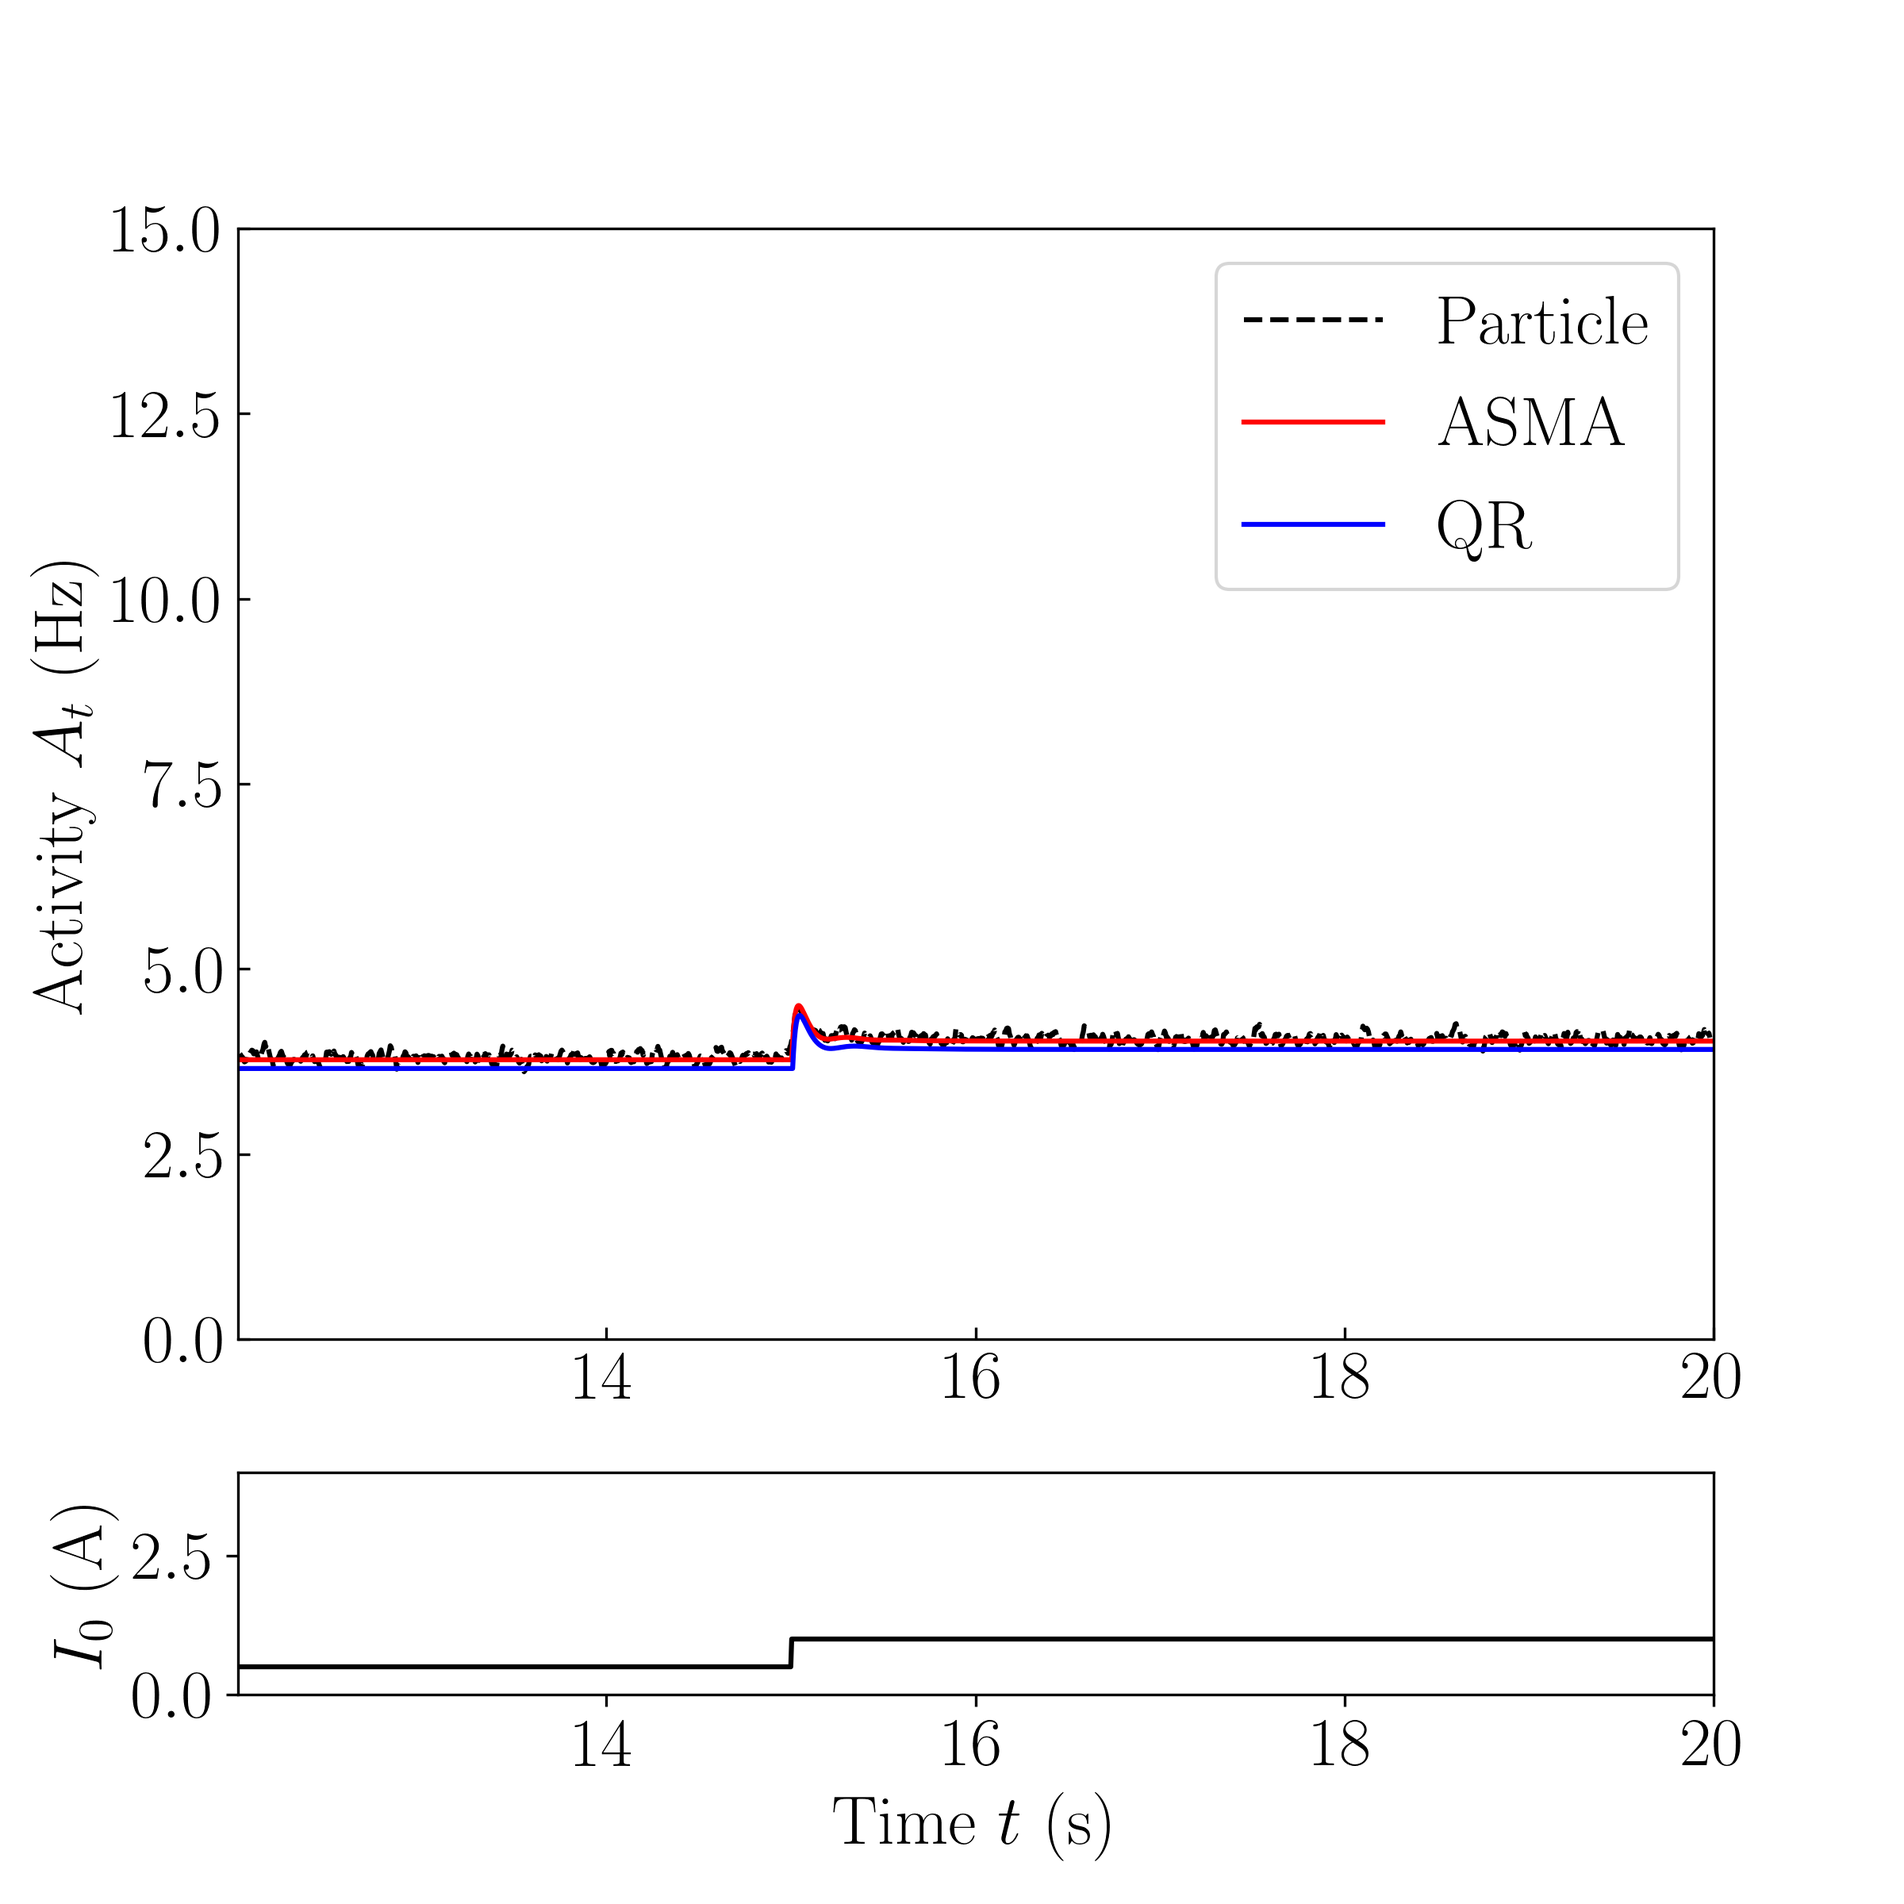
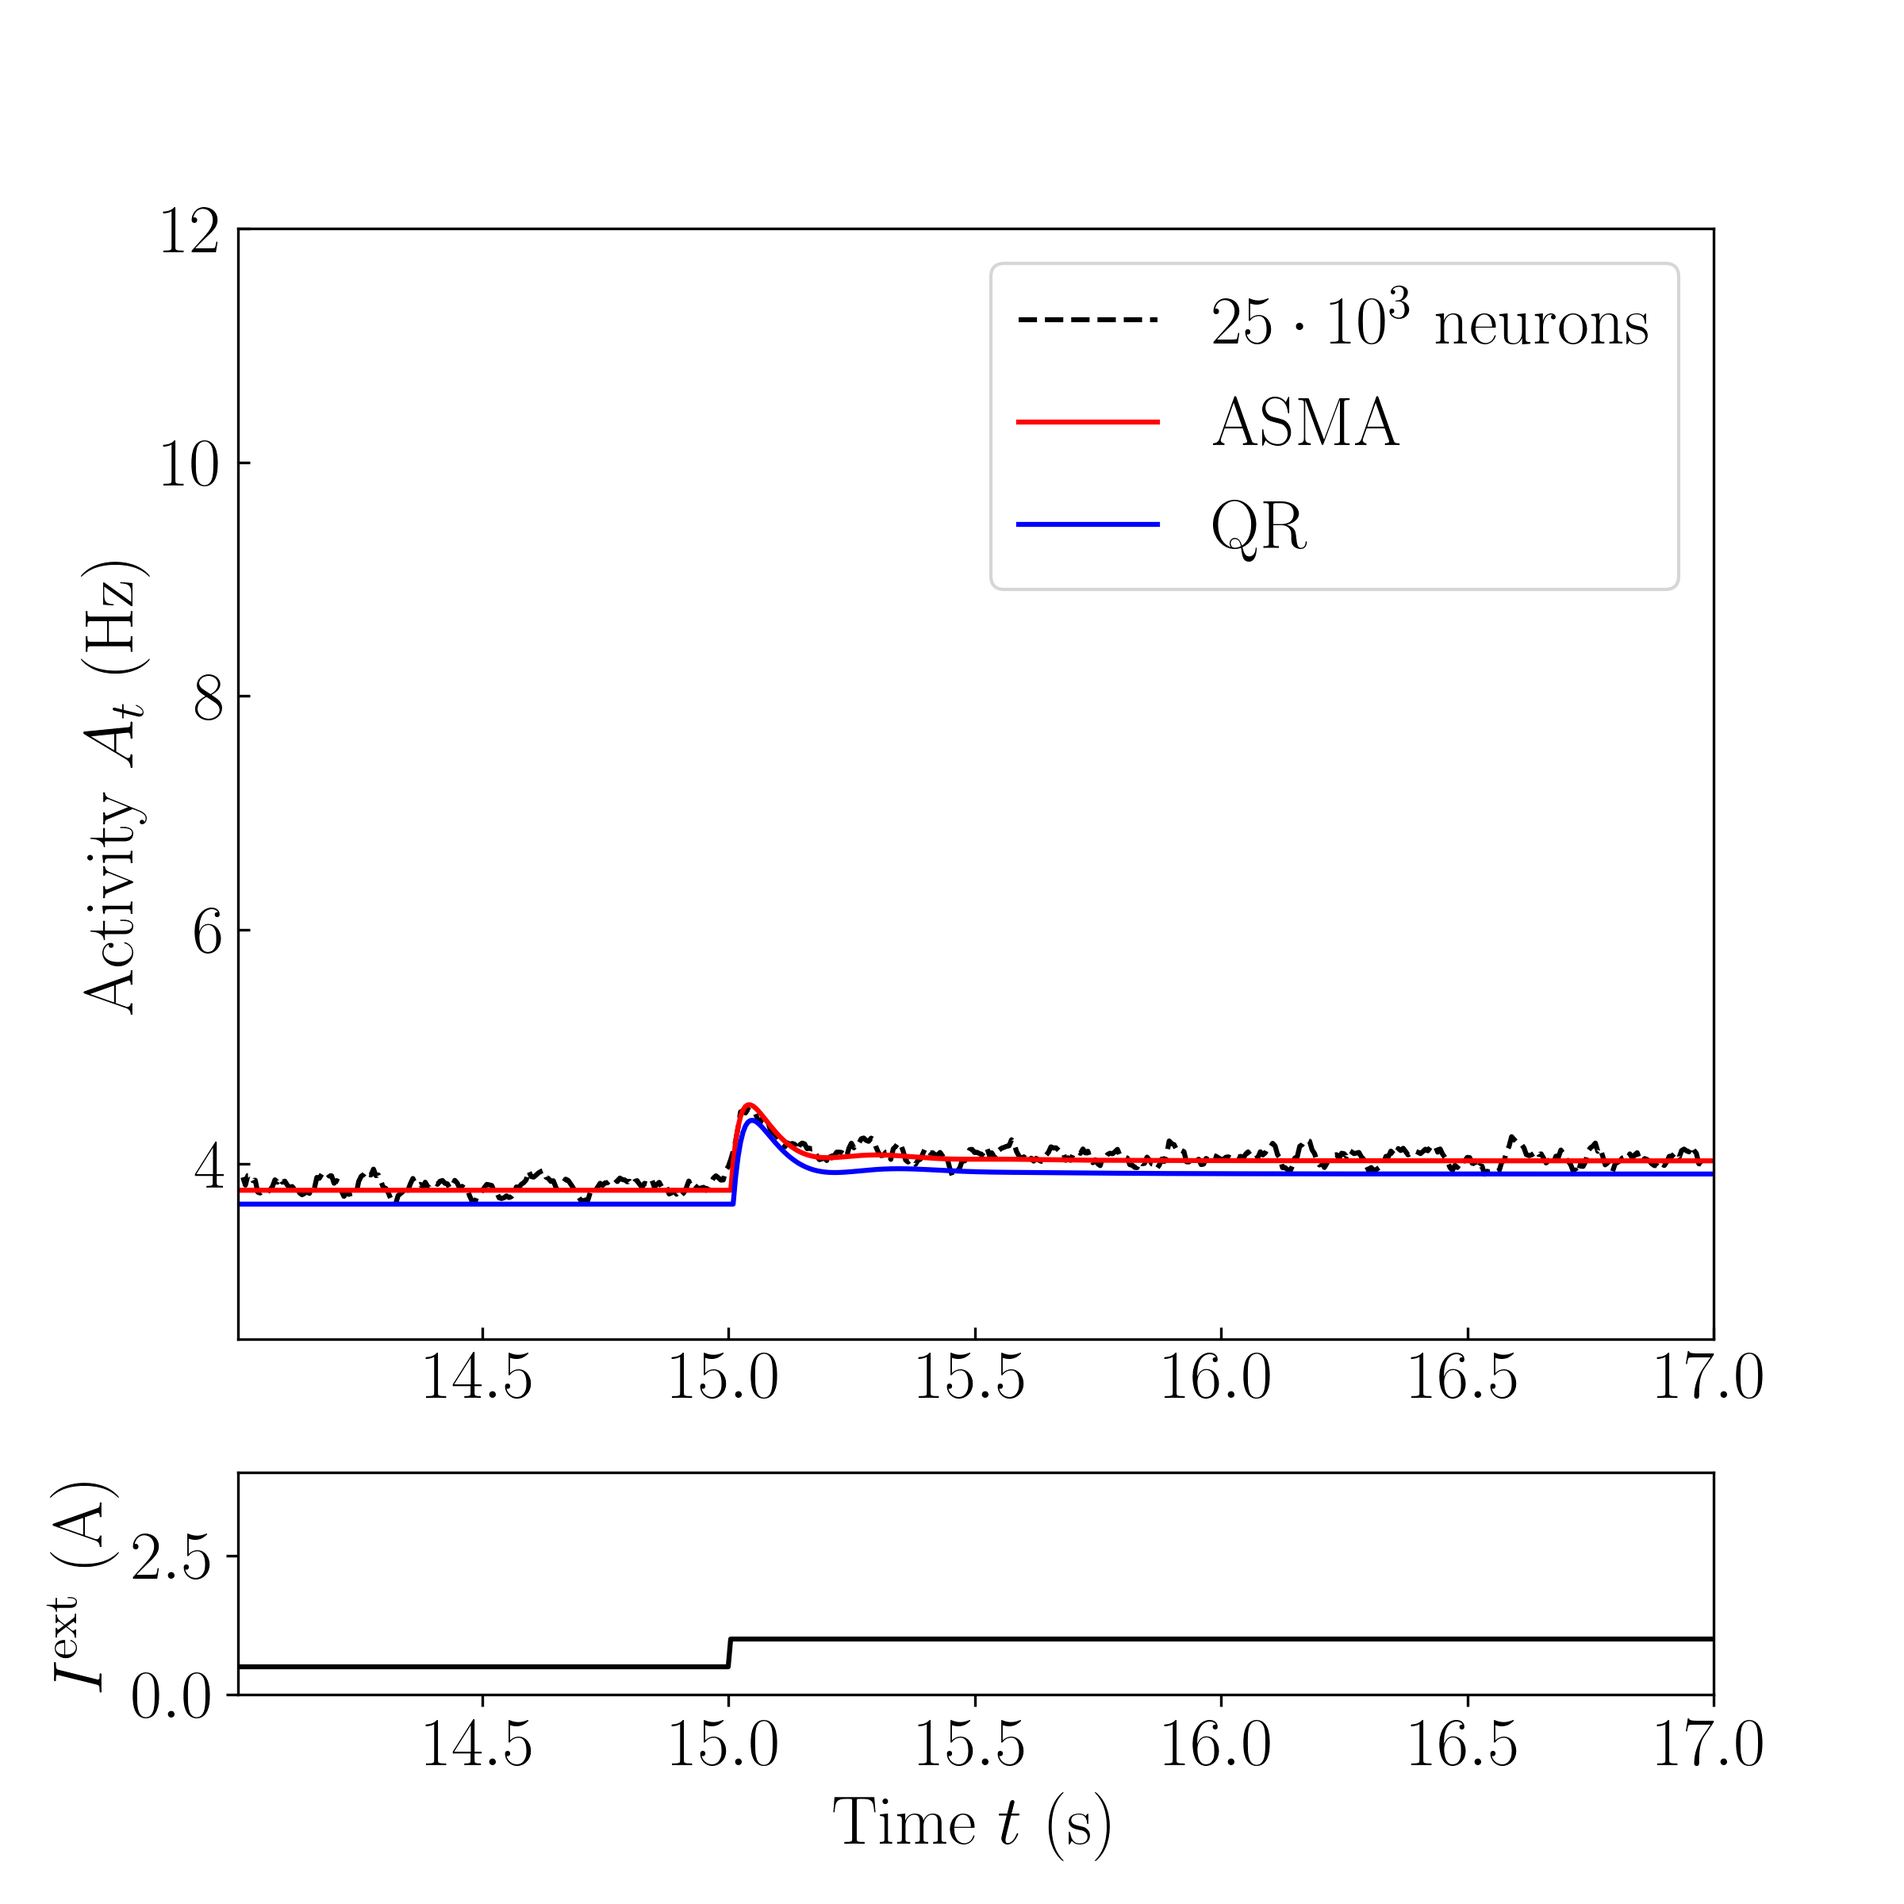
Final modifications of plots for written report

diff --git a/plots/final/m_t_distr2.py b/plots/final/m_t_distr2.py
@@ -12,6 +12,7 @@ from matplotlib.patches import Patch
 import matplotlib.animation as animation
 from numba import jit, prange
 from scipy.interpolate import griddata
+import matplotlib
 
 import flowrect
 from flowrect.simulations.util import calculate_age, calculate_mt, eta_SRM
@@ -56,10 +57,6 @@ def right_after_spike(M, spikes):
     M_after_spike = M
     mask = spikes == 0
     M_after_spike[mask] = np.nan
-    # for i in range(1, M.shape[0]):
-    #     mask = spikes[i] == 1
-    #     M_after_spike[i][mask] = M[i][mask]
-    #     M_after_spike[i][~mask] = M_after_spike[i - 1][~mask]
     return M_after_spike
 
 
@@ -80,12 +77,14 @@ def plot_m_t_distr(
     plot_H=False,
     savepath="",
     savename="",
+    cmap="Greens",
     save=False,
     usetex=False,
     figsize=(12, 5),
     inset=None,
     dpi=None,
     title=None,
+    simple_m=False,
     font_family="serif",
     font_size="12",
     noshow=False,
@@ -93,6 +92,7 @@ def plot_m_t_distr(
     if usetex:
         plt.rc("text", usetex=True)
         plt.rc("font", family=font_family, size=font_size)
+        matplotlib.rcParams["text.latex.preamble"] = [r"\usepackage{amsmath}"]
 
     dim = len(params["Lambda"])
     dt = params["dt"]
@@ -129,7 +129,10 @@ def plot_m_t_distr(
         end_idx = int(params["I_ext_time"] / dt)
 
         # Figure out the distribution of m after spike
-        M_after_spike = right_after_spike(M, spikes)
+
+        M_after_spike = M
+        if not simple_m:
+            M_after_spike = right_after_spike(M, spikes)
 
         bins = num_bins - 3 * i
         time_points = np.repeat(ts[begin_idx:], bins)
@@ -161,7 +164,7 @@ def plot_m_t_distr(
                 s=0.2,
                 marker="s",
                 c=hist_points,
-                cmap="Greens",
+                cmap=cmap,
             )
 
             (m_t_plot,) = ax.plot(
@@ -169,7 +172,7 @@ def plot_m_t_distr(
                 m_t_ASMA[begin_idx:, a],
                 "-r",
                 alpha=0.5,
-                label=r"$\delta_{m-\overline{m}_t}$",
+                label=r"$\delta_{\boldsymbol{m}-\overline{\boldsymbol{m}}_t}$",
             )
             # ax.plot(
             #     ts[begin_idx:],
@@ -184,16 +187,16 @@ def plot_m_t_distr(
 
             # m_t distribution
             ax.set_xlabel(fr"Time $t$")
-            ax.set_ylabel(fr"$m_{a}$")
+            ax.set_ylabel(fr"$m_{a+1}$")
             plt.tight_layout()
+            label = r"Density over $\boldsymbol{m}$ `just after spike'"
+            if simple_m:
+                label = r"Density over $\boldsymbol{m}$"
             if a == 0 and i == 0:
                 handles, _ = scatter.legend_elements(alpha=0.6)
                 ax.legend(
                     [m_t_plot, handles[-1]],
-                    [
-                        r"$\delta_{m-\overline{m}_t}$",
-                        r"Density over $m$ (after spike)",
-                    ],
+                    [r"$\delta_{\boldsymbol{m}-\overline{\boldsymbol{m}}_t}$", label],
                     loc="lower left",
                 )
 

diff --git a/plots/final/activity.py b/plots/final/activity.py
@@ -8,6 +8,7 @@ import matplotlib.text as mtext
 from matplotlib import gridspec
 from matplotlib.animation import FuncAnimation
 import matplotlib.animation as animation
+import matplotlib
 
 import flowrect
 from flowrect.simulations.util import calculate_age, calculate_mt, eta_SRM, moving_average
@@ -40,6 +41,7 @@ def plot_activity(
     inset=None,
     dpi=None,
     title=None,
+    loc="best",
     font_family="serif",
     font_size="12",
     noshow=False,
@@ -47,6 +49,7 @@ def plot_activity(
     if usetex:
         plt.rc("text", usetex=True)
         plt.rc("font", family=font_family, size=font_size)
+        matplotlib.rcParams["text.latex.preamble"] = [r"\usepackage{amsmath}"]
 
     dt = params["dt"]
     I_time = params["I_ext_time"]
@@ -106,15 +109,20 @@ def plot_activity(
     if w:
         new_A = moving_average(A, w)
         (plots["p"],) = ax1.plot(
-            ts_P[begin_P_idx + w // 2 - 1 : -w // 2], new_A[begin_P_idx:], "--k", label="Particle"
+            ts_P[begin_P_idx + w // 2 - 1 : -w // 2],
+            new_A[begin_P_idx:],
+            "--k",
+            label=r"$25\cdot10^3$ neurons",
         )
     else:
-        (plots["p"],) = ax1.plot(ts_P[begin_P_idx:], A[begin_P_idx:], "--k", label="Particle")
+        (plots["p"],) = ax1.plot(
+            ts_P[begin_P_idx:], A[begin_P_idx:], "--k", label=r"$25\cdot10^3$ neurons"
+        )
     (plots["ASMA"],) = ax1.plot(ts_ASMA[begin_idx:], A_t_ASMA[begin_idx:], "-r", label="ASMA")
     if plot_QR:
         (plots["QR"],) = ax1.plot(ts_QR[begin_idx:], A_t_QR[begin_idx:], "-b", label="QR")
 
-    ax1.set_ylim(0, ylim)
+    ax1.set_ylim(ylim[0], ylim[1])
     ax1.set_xlim(ts_ASMA[begin_idx], ts_ASMA[-1])
     ax1.set_ylabel(r"Activity $A_t$ (Hz)")
     if num_plots == 1:
@@ -135,10 +143,10 @@ def plot_activity(
                 ts_P[begin_P_idx + w // 2 - 1 : -w // 2],
                 new_A[begin_P_idx:],
                 "--k",
-                label="Particle",
+                label=r"$25\cdot10^3$ neurons",
             )
         else:
-            axins.plot(ts_P[begin_P_idx:], A[begin_P_idx:], "--k", label="Particle")
+            axins.plot(ts_P[begin_P_idx:], A[begin_P_idx:], "--k", label=r"$25\cdot10^3$ neurons")
         axins.plot(ts_ASMA[begin_idx:], A_t_ASMA[begin_idx:], "-r", label="ASMA")
         if plot_QR:
             axins.plot(ts_QR[begin_idx:], A_t_QR[begin_idx:], "-b", label="QR")
@@ -146,7 +154,7 @@ def plot_activity(
         axins.set_xticklabels("")
         axins.set_yticklabels("")
         ax1.indicate_inset_zoom(axins, edgecolor="black")
-    ax1.legend(handles=plots.values())
+    ax1.legend(handles=plots.values(), loc=loc)
 
     i = 1
 
@@ -174,7 +182,7 @@ def plot_activity(
         ax.set_ylim(0, I_ylim)
         ax.plot(ts_ASMA[begin_idx:], I_ext_vec[begin_idx:], "-k")
         ax.set_xlabel(r"$t$ (s)")
-        ax.set_ylabel(r"$I_0$ (A)")
+        ax.set_ylabel(r"$I^{\text{ext}}$ (A)")
         ax.tick_params(direction="in")
         if i == num_plots:
             ax.tick_params(direction="out")

diff --git a/plots/final/plot_activities.py b/plots/final/plot_activities.py
@@ -8,18 +8,16 @@ from activity import plot_activity
 params = dict(
     dt=0.5 * 1e-2,
     time_end=20,
-    Lambda=np.array([10.3, 2.5]),
-    Gamma=np.array([-5.0, -1.0]),
-    # Lambda=np.array([28.0, 8.0, 1.0]),
-    # Gamma=np.array([-3.5, 3.0, -1.0]),
-    c=20,
+    Lambda=np.array([12.3, 2.5]),
+    Gamma=np.array([-8.0, -2.5]),
+    c=30,
     lambda_kappa=50,
-    Delta=1,
-    theta=1,
-    base_I=0.0,
-    I_ext=2.5,
+    Delta=2,
+    theta=0,
+    base_I=0.5,
+    I_ext=3,
     I_ext_time=15,
-    interaction=0.0,
+    interaction=0.3,
     use_LambdaGamma=True,
 )
 params["Gamma"] = params["Gamma"] / params["Lambda"]
@@ -28,10 +26,10 @@ plot_activity(
     params,
     N=25000,
     time_before_input=3,
-    plot_QR=True,
+    plot_QR=False,
     ylim=20,
     I_ylim=5,
-    a_cutoff=10,
+    a_cutoff=7,
     savepath="git\\plots\\final\\results",
     savename=f"A_d.png",
     dpi=300,

diff --git a/plots/final/delta_0.py b/plots/final/delta_0.py
@@ -101,17 +101,17 @@ def plot_delta_0(
         begin_P_idx = int((params["I_ext_time"] - time_before_input) / params["dt"])
 
         ax = axs[i]
-        ax.set_title(fr"$\Delta = {delta} (mV), " r"I^{\mathrm{ext}}" fr"={I_ext}$ (A)")
+        ax.set_title(fr"$\Delta = {delta} (mV), " r"I_1" fr"={I_ext}$ (A)")
         if w:
             new_A = moving_average(A, w)
             ax.plot(
                 ts_P[begin_P_idx + w // 2 - 1 : -w // 2],
                 new_A[begin_P_idx:],
                 "--k",
-                label="Particle",
+                label=r"$25\cdot10^3$ neurons",
             )
         else:
-            ax.plot(ts_P[begin_P_idx:], A[begin_P_idx:], "--k", label="Particle")
+            ax.plot(ts_P[begin_P_idx:], A[begin_P_idx:], "--k", label=r"$25\cdot10^3$ neurons")
 
         ax.plot(ts_ASMA[begin_idx:], A_t_ASMA[begin_idx:], "-r", label="ASMA")
         if plot_QR:

diff --git a/plots/final/plot_m_t_distr.py b/plots/final/plot_m_t_distr.py
@@ -6,8 +6,8 @@ from m_t_distr2 import plot_m_t_distr
 
 # Simulation parameters
 params = dict(
-    dt=0.5 * 1e-2,
-    time_end=20,
+    dt=1e-2,
+    time_end=18,
     Lambda=np.array([12.3, 2.5]),
     Gamma=np.array([-8.0, -2.5]),
     c=30,
@@ -24,11 +24,11 @@ params["Gamma"] = params["Gamma"] / params["Lambda"]
 
 
 plot_params = dict(
-    dpi=400,
+    dpi=300,
     savepath="git\\plots\\final\\results\\hard_threshold",
     save=True,
     usetex=True,
-    noshow=False,
+    noshow=True,
     font_size=12,
 )
 
@@ -44,3 +44,18 @@ plot_m_t_distr(
     time_before_input=1,
     **plot_params
 )
+plot_m_t_distr(
+    params,
+    N=10000,
+    Deltas=[4, 0.9, 0.1],
+    I_exts=[1.5, 1.5, 1.5],
+    im_res=100,
+    num_bins=30,
+    simple_m=True,
+    cmap="Oranges",
+    margin=1,
+    savename="m_simple_distr.png",
+    time_before_input=1,
+    **plot_params
+)
+plt.show()

diff --git a/plots/final/plot_adaptation_detailed.py b/plots/final/plot_adaptation_detailed.py
@@ -8,7 +8,7 @@ from kernel import plot_kernel
 # Simulation parameters
 params = dict(
     dt=0.5 * 1e-2,
-    time_end=20,
+    time_end=17,
     Lambda=np.array([12.3, 2.5]),
     Gamma=np.array([-8.0, -2.5]),
     c=30,
@@ -39,7 +39,7 @@ plot_activity(
     params,
     params_p=params_p,
     N=25000,
-    time_before_input=3,
+    time_before_input=1,
     plot_QR=True,
     plot_H=False,
     w=7,
@@ -47,7 +47,8 @@ plot_activity(
         [0.49, 0.49, 0.5, 0.5],
         [params["I_ext_time"] - 0.1, params["I_ext_time"] + 1, 3.46, 8.2],
     ],
-    ylim=15,
+    loc="upper left",
+    ylim=(2.5, 12),
     I_ylim=4,
     a_cutoff=7,
     savename=f"A_t_detailed.png",

diff --git a/plots/final/plot_bursting_detailed.py b/plots/final/plot_bursting_detailed.py
@@ -8,7 +8,7 @@ from kernel import plot_kernel
 # Simulation parameters
 params = dict(
     dt=0.5 * 1e-2,
-    time_end=20,
+    time_end=18,
     Lambda=np.array([28.0, 8.0, 1.0]),
     Gamma=np.array([-3.5, 3.0, -1.0]),
     c=20,
@@ -39,7 +39,7 @@ plot_activity(
     params,
     params_p=params_p,
     N=25000,
-    time_before_input=3,
+    time_before_input=1,
     plot_QR=True,
     plot_H=False,
     w=7,
@@ -47,7 +47,7 @@ plot_activity(
     #     [0.49, 0.49, 0.5, 0.5],
     #     [params["I_ext_time"] - 0.1, params["I_ext_time"] + 1.5, 3.5, 14.2],
     # ],
-    ylim=25,
+    ylim=(3, 20),
     I_ylim=4,
     a_cutoff=7,
     savename=f"A_t_detailed.png",

diff --git a/plots/final/plot_bursting.py b/plots/final/plot_bursting.py
@@ -9,7 +9,7 @@ from kernel import plot_kernel
 # Simulation parameters
 params = dict(
     dt=0.5 * 1e-2,
-    time_end=40,
+    time_end=18,
     Lambda=np.array([28.0, 8.0, 1.0]),
     Gamma=np.array([-3.5, 3.0, -1.0]),
     c=20,
@@ -52,10 +52,10 @@ for I_ext in [0.5, 1, 1.5]:
         params_p=params_p,
         N=25000,
         w=7,
-        time_before_input=3,
+        time_before_input=1,
         plot_QR=True,
         plot_H=False,
-        ylim=15,
+        ylim=(3, 11),
         I_ylim=4,
         a_cutoff=10,
         savename=f"A_t_{I_ext}.png",

diff --git a/plots/final/plot_adaptation.py b/plots/final/plot_adaptation.py
@@ -9,7 +9,7 @@ from kernel import plot_kernel
 # Simulation parameters
 params = dict(
     dt=0.5 * 1e-2,
-    time_end=20,
+    time_end=17,
     Lambda=np.array([12.3, 2.5]),
     Gamma=np.array([-8.0, -2.5]),
     c=30,
@@ -55,10 +55,10 @@ for I_ext in [0.5, 1.5, 2.5]:
         params_p=params_p,
         N=25000,
         w=7,
-        time_before_input=3,
+        time_before_input=1,
         plot_QR=True,
         plot_H=False,
-        ylim=15,
+        ylim=(2.5, 12),
         I_ylim=4,
         a_cutoff=10,
         savename=f"A_t_{I_ext}.png",

diff --git a/plots/final/A_inf.py b/plots/final/A_inf.py
@@ -131,8 +131,8 @@ def plot_A_inf(
 
     plt.plot(I_vec, Ainf_PDE, "-r", label="ASMA")
     plt.plot(I_vec, Ainf_QR, "-b", label="QR")
-    plt.errorbar(I_vec_p, Ainf_P, Ainf_std_P, fmt=".k", capsize=2.0, label=f"Particles ({N=})")
-    plt.xlabel(r"$I_0$ (A)")
+    plt.errorbar(I_vec_p, Ainf_P, Ainf_std_P, fmt=".k", capsize=2.0, label=r"$25\cdot10^3$ neurons")
+    plt.xlabel(r"$I_1$ (A)")
     plt.ylabel(r"$A_{\infty}$ (Hz)")
     plt.legend()
     plt.tight_layout()

diff --git a/plots/final/plot_adaptation_Ainf.py b/plots/final/plot_adaptation_Ainf.py
@@ -10,7 +10,7 @@ from A_inf import plot_A_inf
 params = dict(
     dt=0.5 * 1e-2,
     time_end=40,
-    Lambda=np.array([12.3, 2.5]),
+    Lambda=np.array([23.3, 2.5]),
     Gamma=np.array([-8.0, -2.5]),
     c=30,
     lambda_kappa=50,
